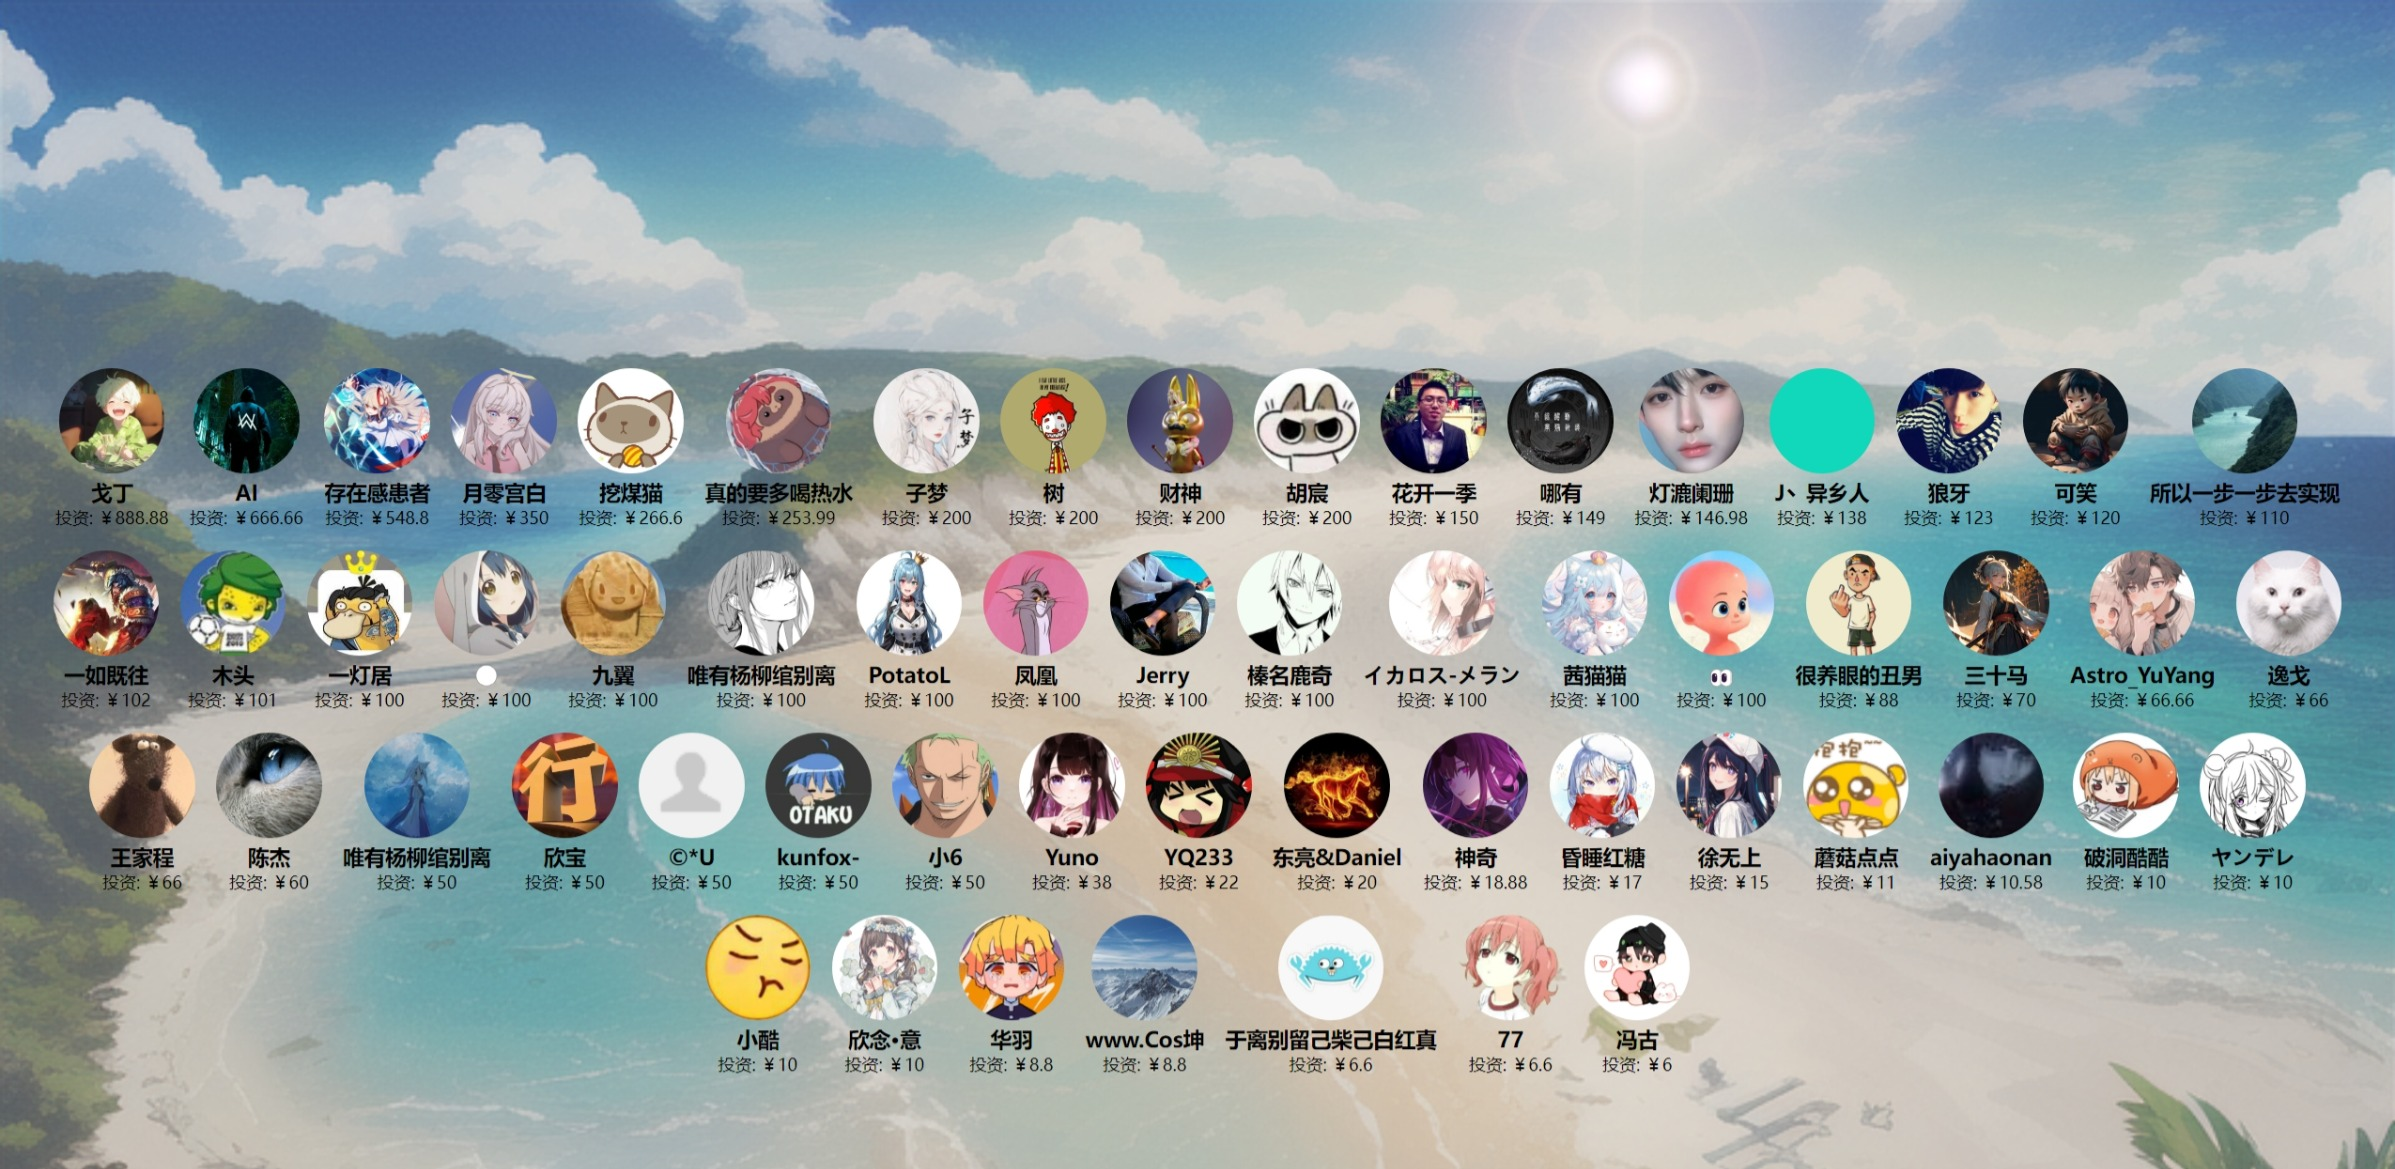
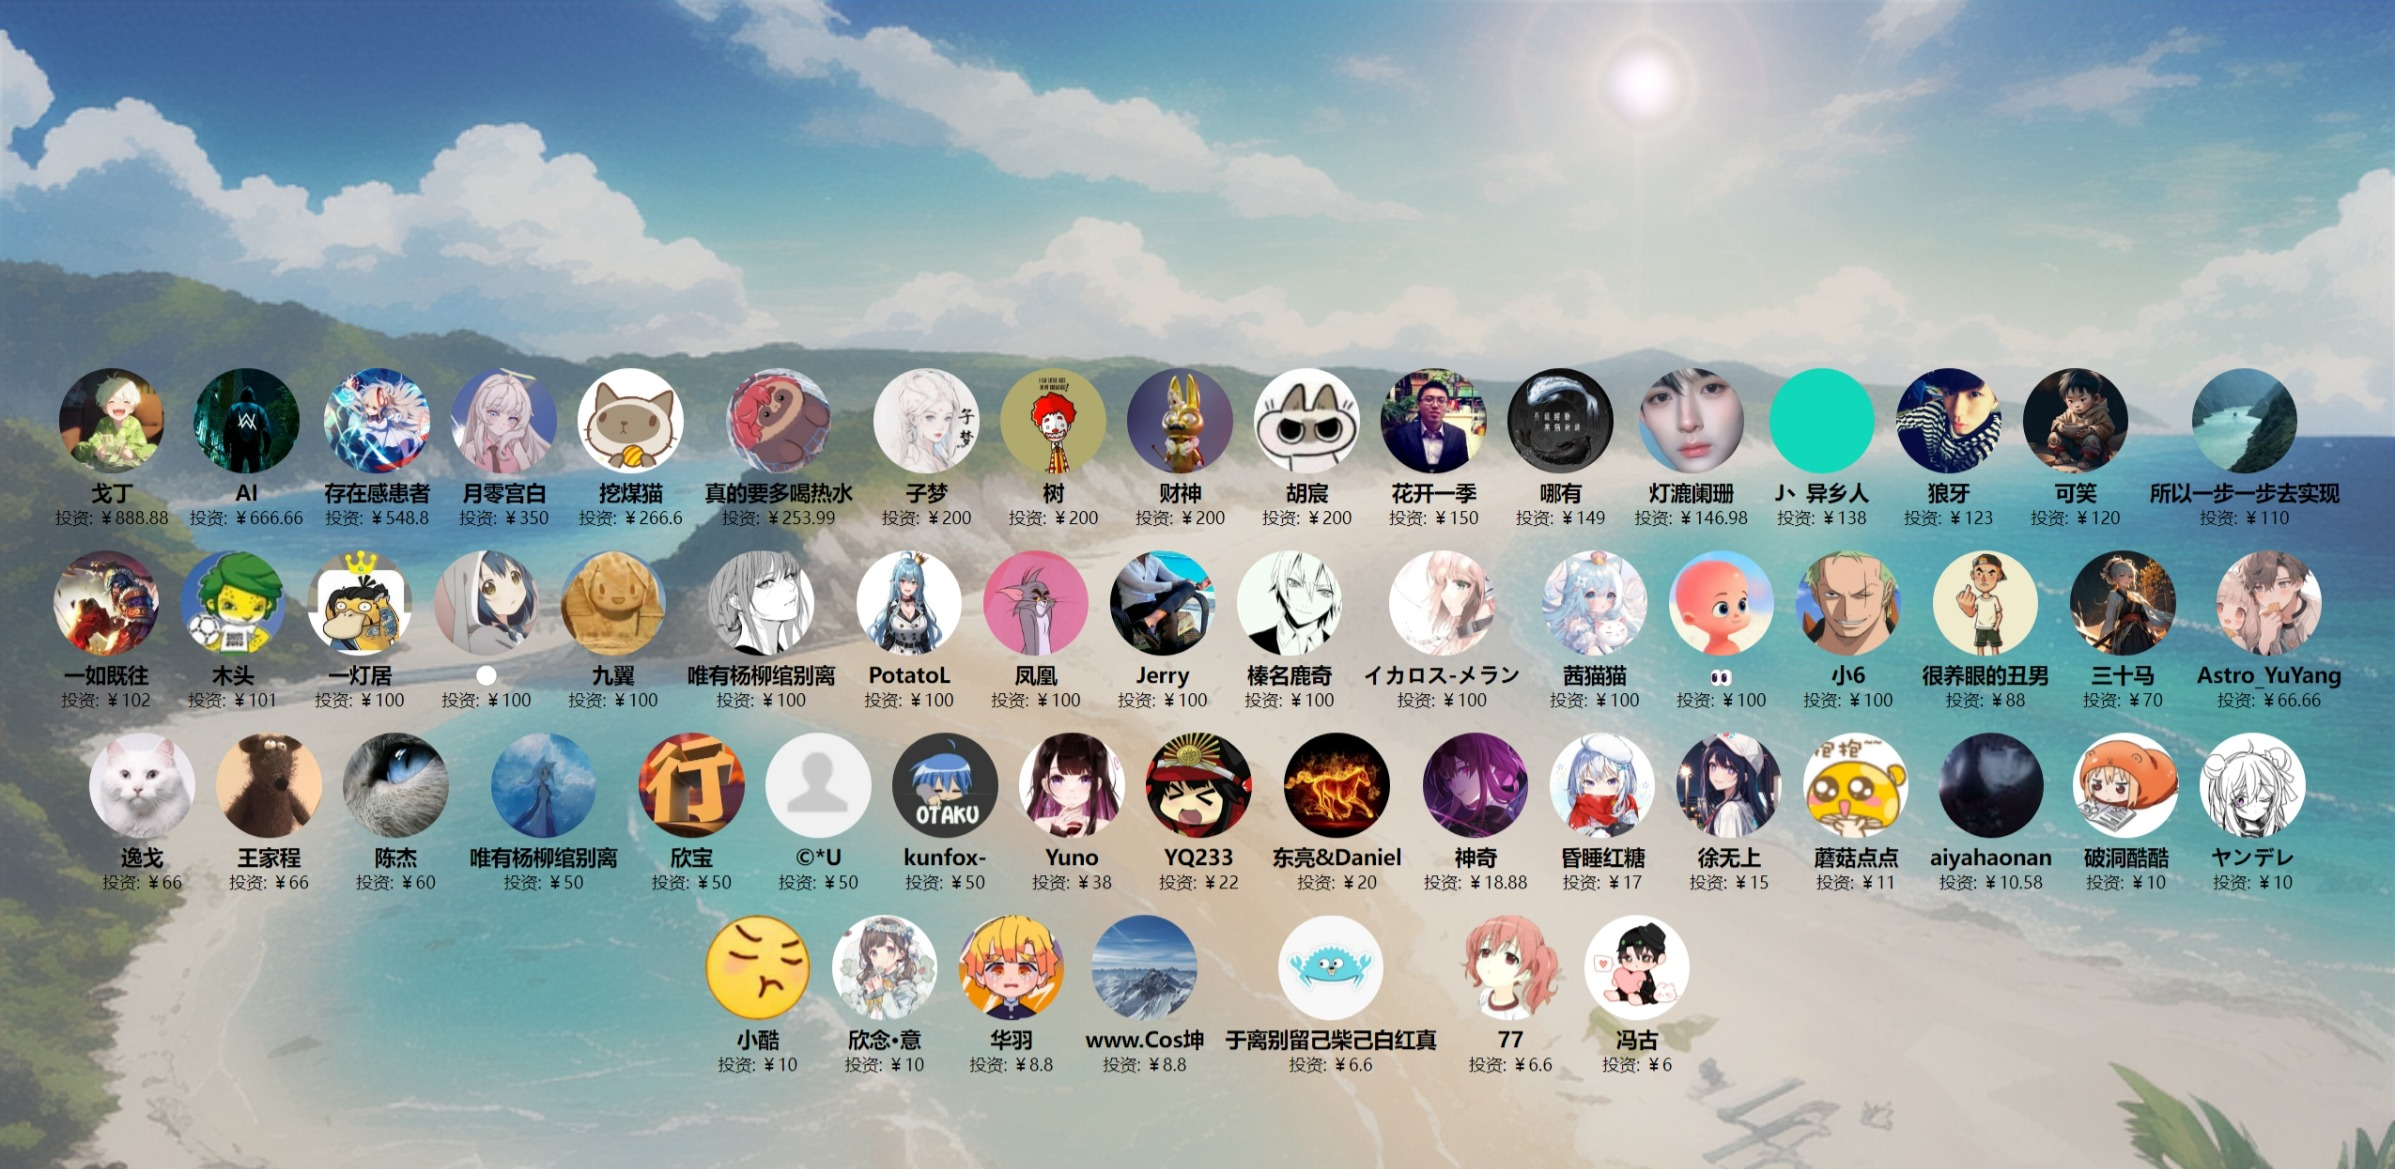
更新投资人

Changed region(s): [[0.0309, 0.6159, 0.4326, 0.7699], [0.7415, 0.4619, 0.9887, 0.6159]]

diff --git a/docs/投资人/index.html b/docs/投资人/index.html
@@ -202,6 +202,11 @@
             amount: "￥100"
         },
         {
+            name: "小6",
+            avatar: "https://images.cnblogs.com/cnblogs_com/ikaros-521/2328032/o_231126075842_QQ%E5%9B%BE%E7%89%8720231126155821.jpg",
+            amount: "￥100"
+        },
+        {
             name: "很养眼的丑男",
             avatar: "https://images.cnblogs.com/cnblogs_com/ikaros-521/2328032/o_230722162732_QQ%E5%9B%BE%E7%89%8720230723000544.jpg",
             amount: "￥88"
@@ -249,11 +254,6 @@
         {
             name: "kunfox-",
             avatar: "https://images.cnblogs.com/cnblogs_com/ikaros-521/2328032/o_230902161301_otaku.jpg",
-            amount: "￥50"
-        },
-        {
-            name: "小6",
-            avatar: "https://images.cnblogs.com/cnblogs_com/ikaros-521/2328032/o_231126075842_QQ%E5%9B%BE%E7%89%8720231126155821.jpg",
             amount: "￥50"
         },
         {
